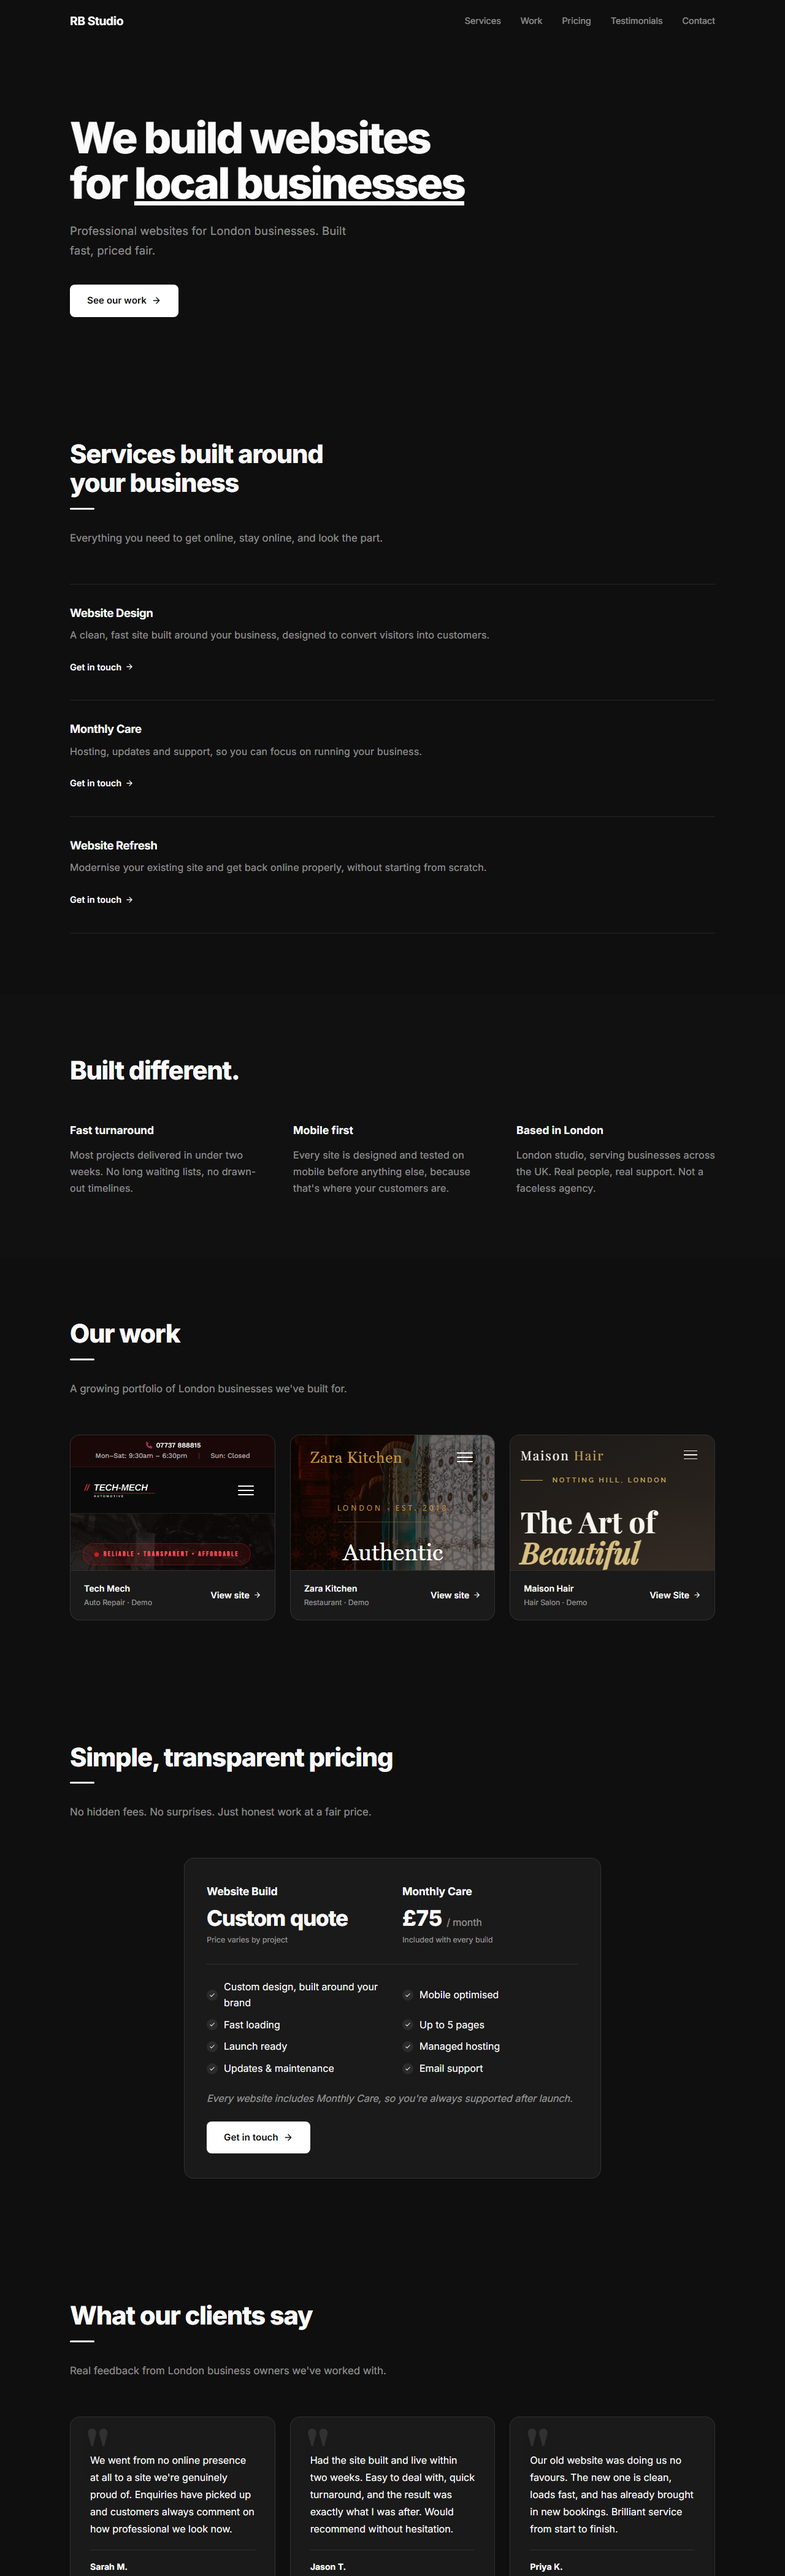
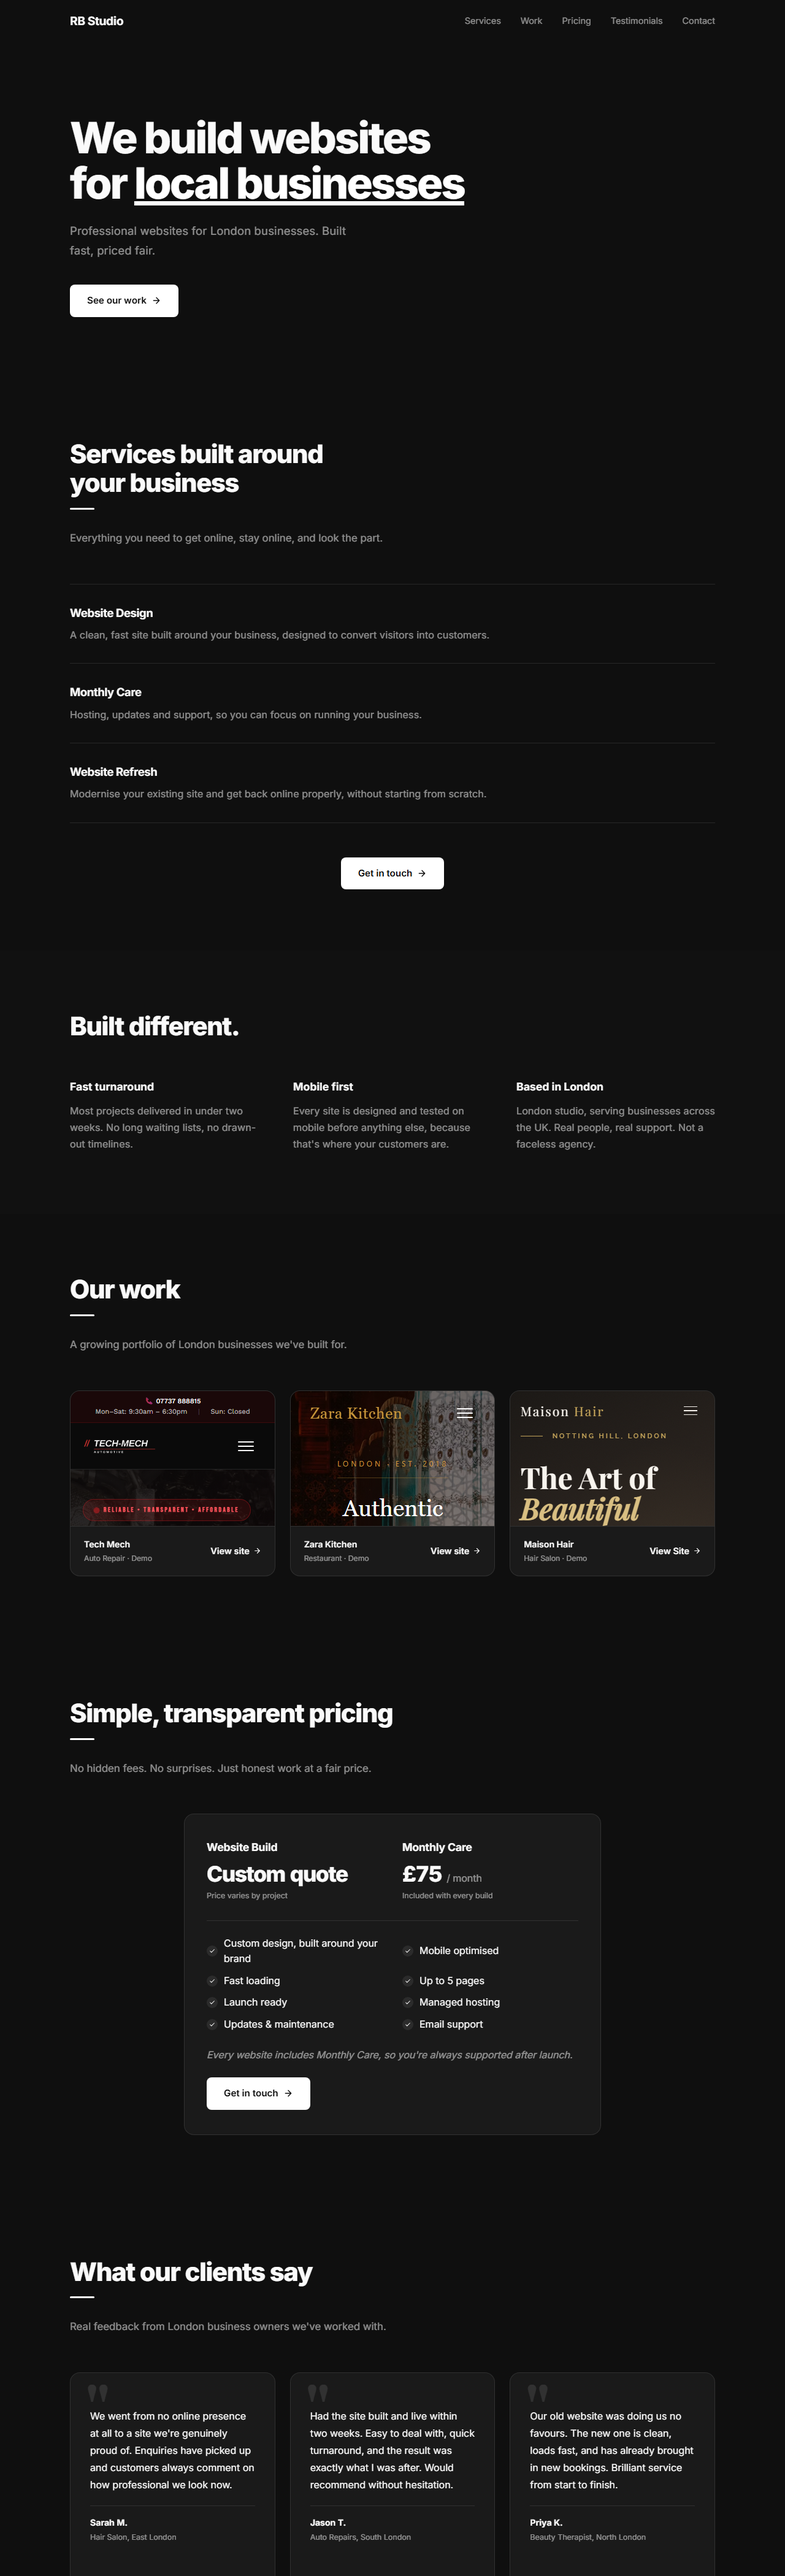
Replace per-service links with a single services CTA
Remove the Get in touch links from the three service rows and add one
centred primary button below the list. Refresh renders.

diff --git a/index.html b/index.html
@@ -363,7 +363,12 @@
       color: var(--muted);
       line-height: 1.7;
       letter-spacing: 0.01em;
-      margin-bottom: 16px;
+    }
+
+    .services-cta {
+      display: flex;
+      justify-content: center;
+      margin-top: 56px;
     }
 
     /* ── WHY ── */
@@ -1027,7 +1032,6 @@
           <div>
             <h3 class="service-name">Website Design</h3>
             <p class="service-desc">A clean, fast site built around your business, designed to convert visitors into customers.</p>
-            <a href="#contact" class="link-accent">Get in touch <svg width="14" height="14" viewBox="0 0 24 24" fill="none" stroke="currentColor" stroke-width="2.2" stroke-linecap="round" stroke-linejoin="round"><path d="M5 12h14M12 5l7 7-7 7"/></svg></a>
           </div>
         </div>
 
@@ -1035,7 +1039,6 @@
           <div>
             <h3 class="service-name">Monthly Care</h3>
             <p class="service-desc">Hosting, updates and support, so you can focus on running your business.</p>
-            <a href="#contact" class="link-accent">Get in touch <svg width="14" height="14" viewBox="0 0 24 24" fill="none" stroke="currentColor" stroke-width="2.2" stroke-linecap="round" stroke-linejoin="round"><path d="M5 12h14M12 5l7 7-7 7"/></svg></a>
           </div>
         </div>
 
@@ -1043,9 +1046,15 @@
           <div>
             <h3 class="service-name">Website Refresh</h3>
             <p class="service-desc">Modernise your existing site and get back online properly, without starting from scratch.</p>
-            <a href="#contact" class="link-accent">Get in touch <svg width="14" height="14" viewBox="0 0 24 24" fill="none" stroke="currentColor" stroke-width="2.2" stroke-linecap="round" stroke-linejoin="round"><path d="M5 12h14M12 5l7 7-7 7"/></svg></a>
           </div>
         </div>
+      </div>
+
+      <div class="services-cta">
+        <a href="#contact" class="btn btn-primary">
+          Get in touch
+          <svg width="16" height="16" viewBox="0 0 24 24" fill="none" stroke="currentColor" stroke-width="2.2" stroke-linecap="round" stroke-linejoin="round"><path d="M5 12h14M12 5l7 7-7 7"/></svg>
+        </a>
       </div>
     </div>
   </section>
